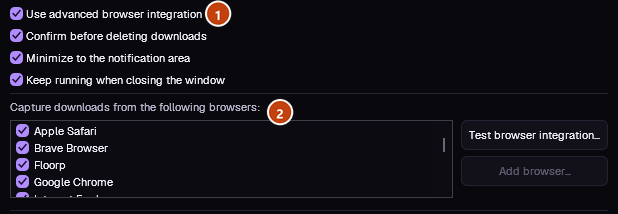
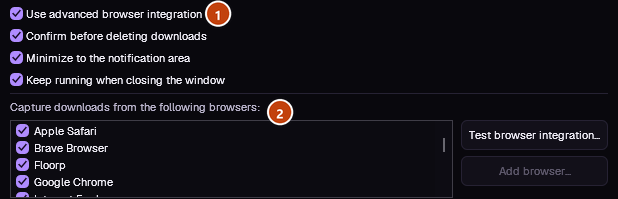
Graphite 09b-shots: the final verification's findings: Helpers' and Add URL's texts, the integration crop, Helpers picked by title
video-helpers' alt and caption name gallery-dl and say what the window shows; first-add-url's
caption no longer says the address is there; rss-feeds' alt names the Download rules tab;
options-integration ends at the browser list's own edge; docs-shots.ps1 picks the Helpers
window by its title, not by the order the windows came in. make.py check: 63 shots, 0 problems.

diff --git a/docs/video.md b/docs/video.md
@@ -35,8 +35,8 @@ Both are kept in a `tools` folder in MDM's data folder.
 
 Already have yt-dlp or ffmpeg for another program? Use those instead of a second copy: in **Download video from a page**, click **Helpers...**, then **Use another program...** beside yt-dlp or ffmpeg, and choose the program. MDM runs it once to check that it is that program, and uses it from then on, the command line too. MDM doesn't update a program you chose: keep it up to date yourself (yt-dlp: `yt-dlp -U`, or your package manager). **Use MDM's own copy** goes back to the one MDM downloads and checks.
 
-![The video helpers window: yt-dlp and ffmpeg, each with its version and Use another program...](images/help/video-helpers.webp)
-*Helpers...: use your own yt-dlp or ffmpeg instead.*
+![The Helpers window: yt-dlp, ffmpeg and gallery-dl, each with Use another program... and Use MDM's own copy](images/help/video-helpers.webp)
+*Helpers...: use your own yt-dlp, ffmpeg or gallery-dl instead.*
 
 ### A JavaScript runtime for YouTube {#javascript-runtime}
 

diff --git a/docs/torrents.md b/docs/torrents.md
@@ -74,7 +74,7 @@ A torrent in order isn't faster to finish, and it helps the swarm less: use it f
 
 Many sites publish their new torrents as an RSS or Atom feed. MDM can watch feeds, list what they hold, and add the new torrents you want by itself. Choose **Tasks → RSS feeds...**, or click the arrow next to **Add Torrent**.
 
-![RSS feeds before any is added: the list of feeds, their items and the rules](images/help/rss-feeds.webp)
+![RSS feeds before any is added: the list of feeds, their items, and the Download rules tab](images/help/rss-feeds.webp)
 *RSS feeds, and the rules that pick what to download.*
 
 **Feeds** tab:

diff --git a/docs/guide-first-download.md b/docs/guide-first-download.md
@@ -17,7 +17,7 @@ From a copied link to an opened file in a minute or two.
 <!-- steps -->
 
 1. ![Enter new address to download, its OK button ringed](images/help/first-add-url.webp)
-   *Add URL: the copied address is already there. Click OK.*
+   *Add URL: MDM puts the address you copied in the Address box (paste it there if it isn't). Click OK.*
 2. ![Download File Info with the file's name, size and folder](images/help/first-file-info.webp)
    *Check the folder, then Start Download.*
 3. ![The progress window: speed, time left and each connection's share of the file](images/help/first-progress.webp)
